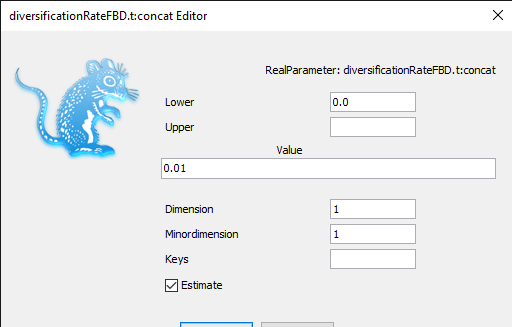
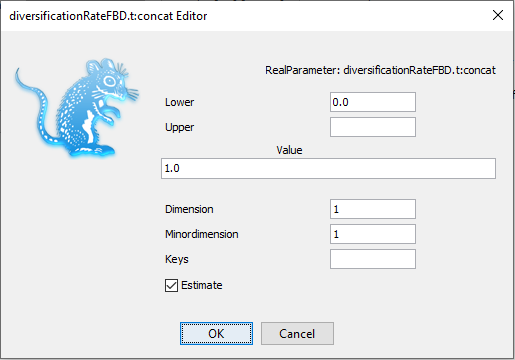
fixed figures & zoom levels

diff --git a/README.md b/README.md
@@ -55,7 +55,7 @@ The following packages are required to run the examples: SA, CA, SSM.
 
 <figure>
 	<a id="packageManage1"></a>
-	<img style="width:75.0%;" src="figures/package_manager.png" alt="">
+	<img style="width:80.0%;" src="figures/package_manager.png" alt="">
 	<figcaption>Figure 1: Finding the BEAST2 Package Manager.</figcaption>
 </figure>
 <br>
@@ -66,7 +66,7 @@ The following packages are required to run the examples: SA, CA, SSM.
 
 <figure>
 	<a id="packageManage2"></a>
-	<img style="width:65.0%;" src="figures/packages.png" alt="">
+	<img style="width:70.0%;" src="figures/packages.png" alt="">
 	<figcaption>Figure 2: The BEAST2 Package Manager.</figcaption>
 </figure>
 <br>
@@ -86,7 +86,7 @@ BEAUti needs to be closed for the newly installed packages to be loaded properly
 
 <figure>
 	<a id="errorParsing"></a>
-	<img style="width:65.0%;" src="figures/error_xml.png" alt="">
+	<img style="width:80.0%;" src="figures/error_xml.png" alt="">
 	<figcaption>Figure 3: Error message in BEAST2.</figcaption>
 </figure>
 <br>
@@ -102,7 +102,7 @@ By comparing to a previous (working) analysis in the file `part1_1xmlparsing_wor
 As the error message told us, the **tree** element of the configuration is missing in the non-working XML file. Putting it back allows us to start the run.
 
 > Open the file `part1_xmlparsing.xml` in a text editor.
-> Modify **line 1297** of the file to add the **tree="@Tree.t:concat"** element. Save the file as `part1_xmlparsing_fixed.xml`.
+> Modify **line 1297** of the file to add the `tree="@Tree.t:concat"` element. Save the file as `part1_xmlparsing_fixed.xml`.
 > Open **BEAST2** and select the file `part1_xmlparsing_fixed.xml` as input file. Start the run with the **Run** button.
 > Now it works!
 >
@@ -118,7 +118,7 @@ XML parsing errors usually occur when the XML file has been manually edited and 
 
 <figure>
 	<a id="errorStarting"></a>
-	<img style="width:65.0%;" src="figures/error_initial.png" alt="">
+	<img style="width:80.0%;" src="figures/error_initial.png" alt="">
 	<figcaption>Figure 4: Another error message in BEAST2.</figcaption>
 </figure>
 <br>
@@ -141,7 +141,7 @@ The starting tree can be found in the **Starting tree** panel, which is hidden b
 
 <figure>
 	<a id="startingTree"></a>
-	<img style="width:65.0%;" src="figures/startingTree.png" alt="">
+	<img style="width:80.0%;" src="figures/startingTree.png" alt="">
 	<figcaption>Figure 5: Starting tree panel.</figcaption>
 </figure>
 <br>
@@ -154,7 +154,7 @@ As we can see in [Figure 5](#startingTree), the initial tree in this analysis is
 
 <figure>
 	<a id="rootPrior"></a>
-	<img style="width:65.0%;" src="figures/rootPrior.png" alt="">
+	<img style="width:80.0%;" src="figures/rootPrior.png" alt="">
 	<figcaption>Figure 6: Priors panel showing the root prior.</figcaption>
 </figure>
 <br>
@@ -174,7 +174,7 @@ Thus we can see that the initial diversification rate is **1.0**, the initial sa
 
 <figure>
 	<a id="initialVal"></a>
-	<img style="width:65.0%;" src="figures/initialVal.png" alt="">
+	<img style="width:80.0%;" src="figures/initialVal.png" alt="">
 	<figcaption>Figure 7: Initial values in the Priors panel.</figcaption>
 </figure>
 <br>
@@ -189,7 +189,7 @@ Thus we can see that the initial diversification rate is **1.0**, the initial sa
 
 <figure>
 	<a id="initialDiv"></a>
-	<img style="width:65.0%;" src="figures/initialDiv.png" alt="">
+	<img style="width:50.0%;" src="figures/initialDiv.png" alt="">
 	<figcaption>Figure 8: Changing the initial value.</figcaption>
 </figure>
 <br>
